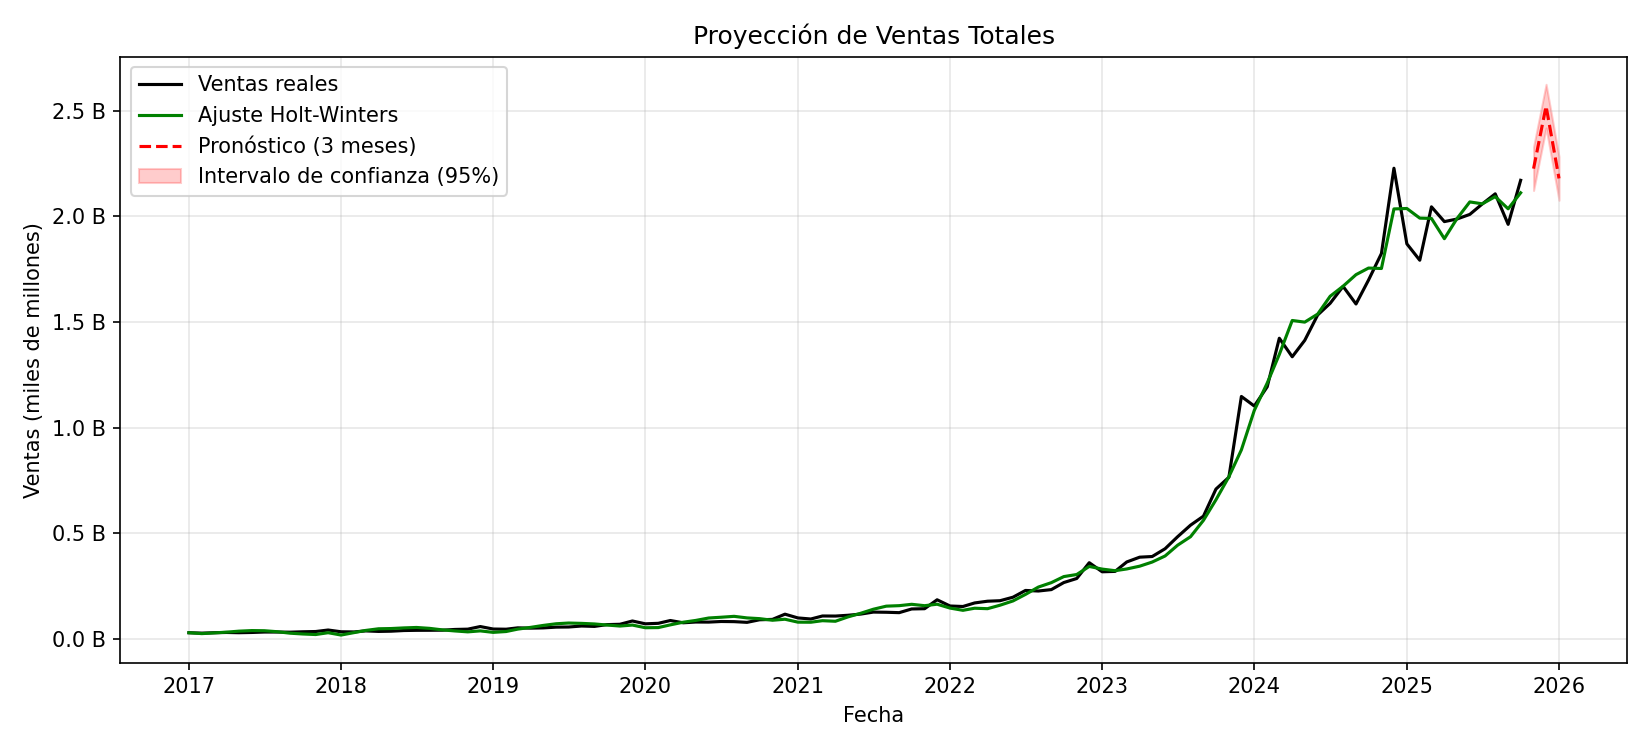
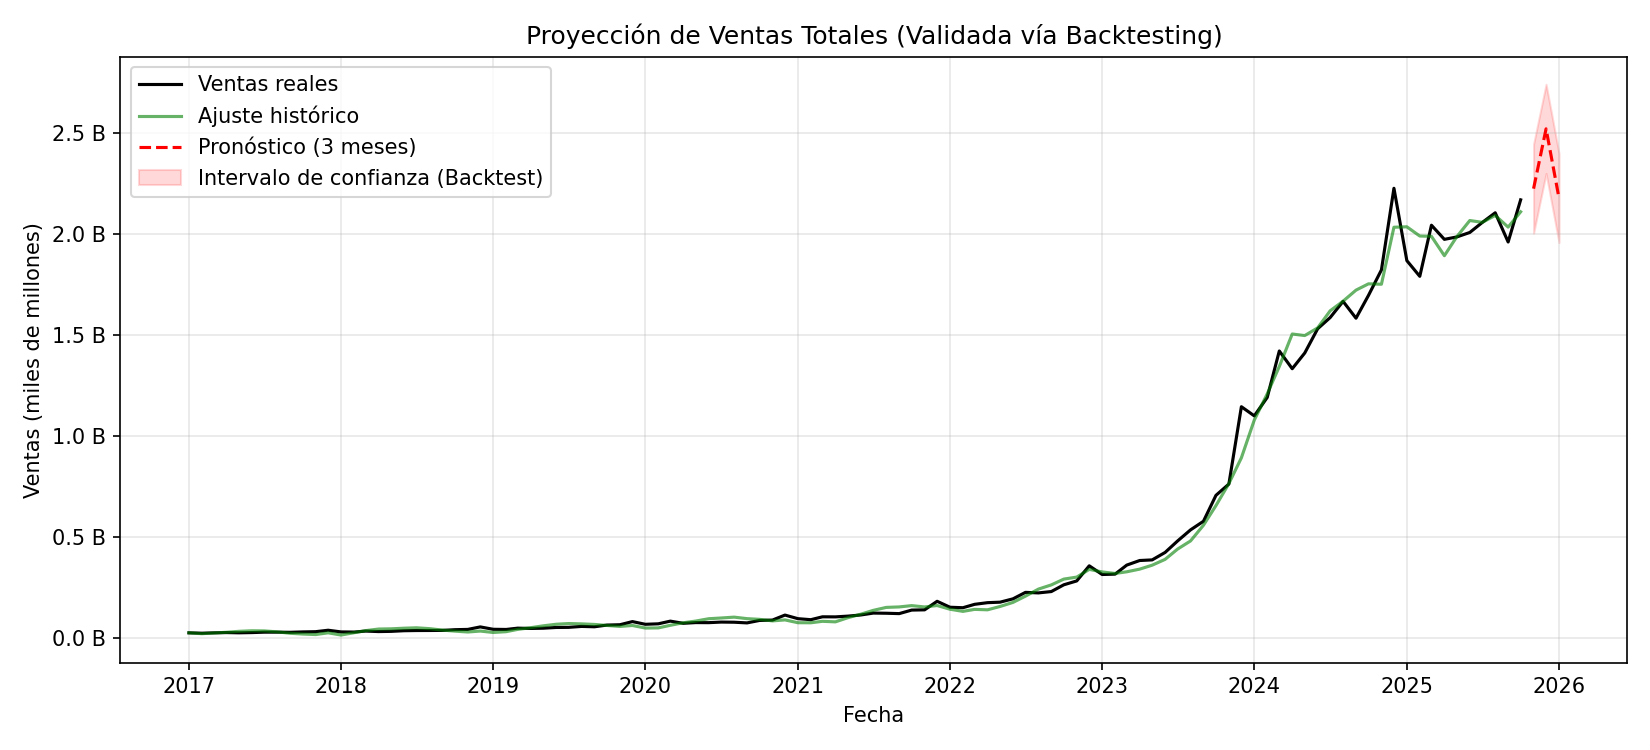
Agregado backtest a Holt-Winters y rango mínimo y máximo a las predicciones

diff --git a/src/visualization.py b/src/visualization.py
@@ -59,19 +59,34 @@ def plot_sales(df, figures_dir):
 
     return paths
 
+
+def plot_backtest_validation(ts_scaled, train, test, test_predictions, figures_dir):
+    """
+    Genera un gráfico comparando la predicción del backtest contra la realidad.
+    """
+    plt.figure(figsize=(10, 5))
+    
+    # Datos de entrenamiento
+    plt.plot(train.index, train.values, label="Entrenamiento", color="black", alpha=0.5)
+    
+    # Comparativa: Real vs Predicho
+    plt.plot(test.index, test.values, label="Real (Test)", color="blue", linewidth=2)
+    plt.plot(test.index, test_predictions, label="Predicción Backtest", color="orange", linestyle="--", linewidth=2)
+    
+    plt.title("Validación de Modelo: Predicción vs Realidad (Últimos 12 meses)")
+    plt.xlabel("Fecha")
+    plt.ylabel("Ventas (Escaladas)")
+    plt.legend()
+    plt.grid(alpha=0.3)
+    
+    plt.tight_layout()
+    plt.savefig(os.path.join(figures_dir, "backtest_validation.png"), dpi=150)
+    plt.close()
+#Nueva función 
 def plot_forecast_holt_winters(df, figures_dir, horizon=3):
     """
-    Genera pronóstico Holt-Winters con bandas de confianza (formato gerencial).
-
-    Parámetros:
-    df : pd.DataFrame
-        Columnas: 'indice_tiempo', 'ventas_totales_canal_venta'
-    figures_dir : str
-        Carpeta donde se guarda el gráfico
-    horizon : int
-        Meses a pronosticar
+    Genera pronóstico Holt-Winters con validación (Backtesting) y bandas de confianza.
     """
-
     os.makedirs(figures_dir, exist_ok=True)
 
     # --- Preparar serie de tiempo ---
@@ -79,39 +94,48 @@ def plot_forecast_holt_winters(df, figures_dir, horizon=3):
         df.sort_values("indice_tiempo")
           .set_index("indice_tiempo")["ventas_totales_canal_venta"]
     )
-
     ts.index = pd.to_datetime(ts.index)
-    ts = ts.asfreq("MS")
-    ts = ts.dropna()
+    ts = ts.asfreq("MS").dropna()
 
-    # ================================
-    # ESCALADO A MILES DE MILLONES
-    # ================================
     scale = 1e9
     ts_scaled = ts / scale
 
-    # --- Modelo Holt-Winters ---
-    model = ExponentialSmoothing(
-        ts_scaled,
-        trend="add",
-        seasonal="add",
-        seasonal_periods=12
-    )
+    # ==========================================
+    # 1. BACKTESTING (Validación del modelo)
+    # ==========================================
+    # Reservamos los últimos 12 meses para testear la precisión
+    train_size = len(ts_scaled) - 12
+    train, test = ts_scaled.iloc[:train_size], ts_scaled.iloc[train_size:]
 
-    fit = model.fit(optimized=True)
+    model_backtest = ExponentialSmoothing(
+        train, trend="add", seasonal="add", seasonal_periods=12
+    ).fit(optimized=True)
+    
+    # Predecimos el periodo de test para calcular el error real
+    test_predictions = model_backtest.forecast(len(test))
+    rmse_backtest = np.sqrt(np.mean((test - test_predictions)**2))
+    
+    print(f"--- Validación finalizada ---")
+    print(f"Registros totales: {len(ts_scaled)}")
+    print(f"Operaciones en Backtest: {len(test)} meses")
+    print(f"RMSE de validación: {rmse_backtest:.4f} B")
+    # ... después de calcular test_predictions ...
+    plot_backtest_validation(ts_scaled, train, test, test_predictions, figures_dir)
+    # ==========================================
+    # 2. PREDICCIÓN FINAL (Uso de todos los datos)
+    # ==========================================
+    # Ahora sí, entrenamos con el 100% para el futuro real
+    final_model = ExponentialSmoothing(
+        ts_scaled, trend="add", seasonal="add", seasonal_periods=12
+    ).fit(optimized=True)
 
-    # --- Forecast ---
-    forecast_scaled = fit.forecast(horizon)
+    forecast_scaled = final_model.forecast(horizon)
+    
+    # Usamos el RMSE del backtest para los intervalos (es más realista que el de ajuste)
+    upper_scaled = forecast_scaled + 1.96 * rmse_backtest
+    lower_scaled = forecast_scaled - 1.96 * rmse_backtest
 
-    # --- Error histórico (RMSE) ---
-    residuals = ts_scaled - fit.fittedvalues
-    rmse = np.sqrt(np.mean(residuals**2))
-
-    # --- Intervalos de confianza ---
-    upper_scaled = forecast_scaled + 1.96 * rmse
-    lower_scaled = forecast_scaled - 1.96 * rmse
-
-    # --- Reescalar a valores reales ---
+    # Reescalar
     forecast = forecast_scaled * scale
     lower = lower_scaled * scale
     upper = upper_scaled * scale
@@ -120,62 +144,58 @@ def plot_forecast_holt_winters(df, figures_dir, horizon=3):
     # GRÁFICO (FORMATO GERENCIAL)
     # ================================
     plt.figure(figsize=(11, 5))
-
-    plt.plot(ts.index, ts.values / scale, 
-             label="Ventas reales", color="black")
-
-    plt.plot(fit.fittedvalues.index, fit.fittedvalues.values, 
-             label="Ajuste Holt-Winters", color="green")
-
+    plt.plot(ts.index, ts.values / scale, label="Ventas reales", color="black", linewidth=1.5)
+    plt.plot(final_model.fittedvalues.index, final_model.fittedvalues.values, 
+             label="Ajuste histórico", color="green", alpha=0.6)
+    
     plt.plot(forecast.index, forecast.values / scale,
-             label=f"Pronóstico ({horizon} meses)",
-             linestyle="--", color="red")
+             label=f"Pronóstico ({horizon} meses)", linestyle="--", color="red")
 
-    plt.fill_between(
-        forecast.index,
-        lower.values / scale,
-        upper.values / scale,
-        color="red",
-        alpha=0.2,
-        label="Intervalo de confianza (95%)"
-    )
+    plt.fill_between(forecast.index, lower.values / scale, upper.values / scale,
+                     color="red", alpha=0.15, label="Intervalo de confianza (Backtest)")
 
-    plt.title("Proyección de Ventas Totales")
+    plt.title("Proyección de Ventas Totales (Validada vía Backtesting)")
     plt.xlabel("Fecha")
     plt.ylabel("Ventas (miles de millones)")
     plt.legend()
     plt.grid(alpha=0.3)
 
     ax = plt.gca()
-
-    # Formato eje Y → miles de millones (B)
-    ax.ticklabel_format(style="plain", axis="y")
-    ax.get_yaxis().get_offset_text().set_visible(False)
-    ax.yaxis.set_major_formatter(
-        mtick.FuncFormatter(lambda x, _: f"{x:.1f} B")
-    )
+    ax.yaxis.set_major_formatter(mtick.FuncFormatter(lambda x, _: f"{x:.1f} B"))
 
     plt.tight_layout()
     plt.savefig(os.path.join(figures_dir, "forecast_hw.png"), dpi=150)
     plt.close()
 
     # ================================
-    # EXPORTAR A EXCEL
+    # EXPORTAR A EXCEL (CON ESCENARIOS)
     # ================================
-    forecast_df = forecast.reset_index()
-    forecast_df.columns = ["Mes", "Proyección total de ventas"]
+    # Creamos un DataFrame con el forecast y los intervalos
+    forecast_df = pd.DataFrame({
+        "Mes": forecast.index,
+        "Ventas Escenario Mínimo": lower.values,
+        "Proyección Ventas (Base)": forecast.values,
+        "Ventas Escenario Máximo": upper.values
+    })
 
-    forecast_df["Proyección total de ventas"] = (
-        forecast_df["Proyección total de ventas"]
-        .round(0)
-        .astype("int64")
-    )
+    # Redondear y pasar a entero para un formato más limpio
+    cols_a_formatear = [
+        "Ventas Escenario Mínimo", 
+        "Proyección Ventas (Base)", 
+        "Ventas Escenario Máximo"
+    ]
+    
+    for col in cols_a_formatear:
+        forecast_df[col] = forecast_df[col].round(0).astype("int64")
 
+    # Guardar en la carpeta de outputs
+    os.makedirs("outputs", exist_ok=True)
     forecast_df.to_excel(
-        "outputs/forecast.xlsx",
+        "outputs/forecast_escenarios.xlsx", 
         index=False
     )
 
+    print("✅ Excel exportado con escenarios Mínimo, Base y Máximo.")
+    
     return forecast, lower, upper
-
 

diff --git a/main.py b/main.py
@@ -3,7 +3,7 @@ from config import DATA_URL, OUTPUT_EXCEL, FIGURES_DIR, LAST_N_MONTHS
 from src.ingest import ingest_data
 from src.validation import validate_data
 from src.metrics import compute_kpis
-from src.visualization import plot_sales
+from src.visualization import plot_sales, plot_forecast_holt_winters
 from src.reporting import export_report
 from src.pdf_report import generate_pdf
 from config import (

diff --git a/config.py b/config.py
@@ -1,6 +1,7 @@
 
 ### Configuración de la ingesta de dato.
 DATA_URL = "https://infra.datos.gob.ar/catalog/sspm/dataset/455/distribution/455.1/download/ventas-totales-supermercados-2.csv"
+#DATA_URL = "ventas-totales-supermercados-2.csv"
 OUTPUT_EXCEL = "outputs/report.xlsx"
 FIGURES_DIR = "outputs/figures"
 
